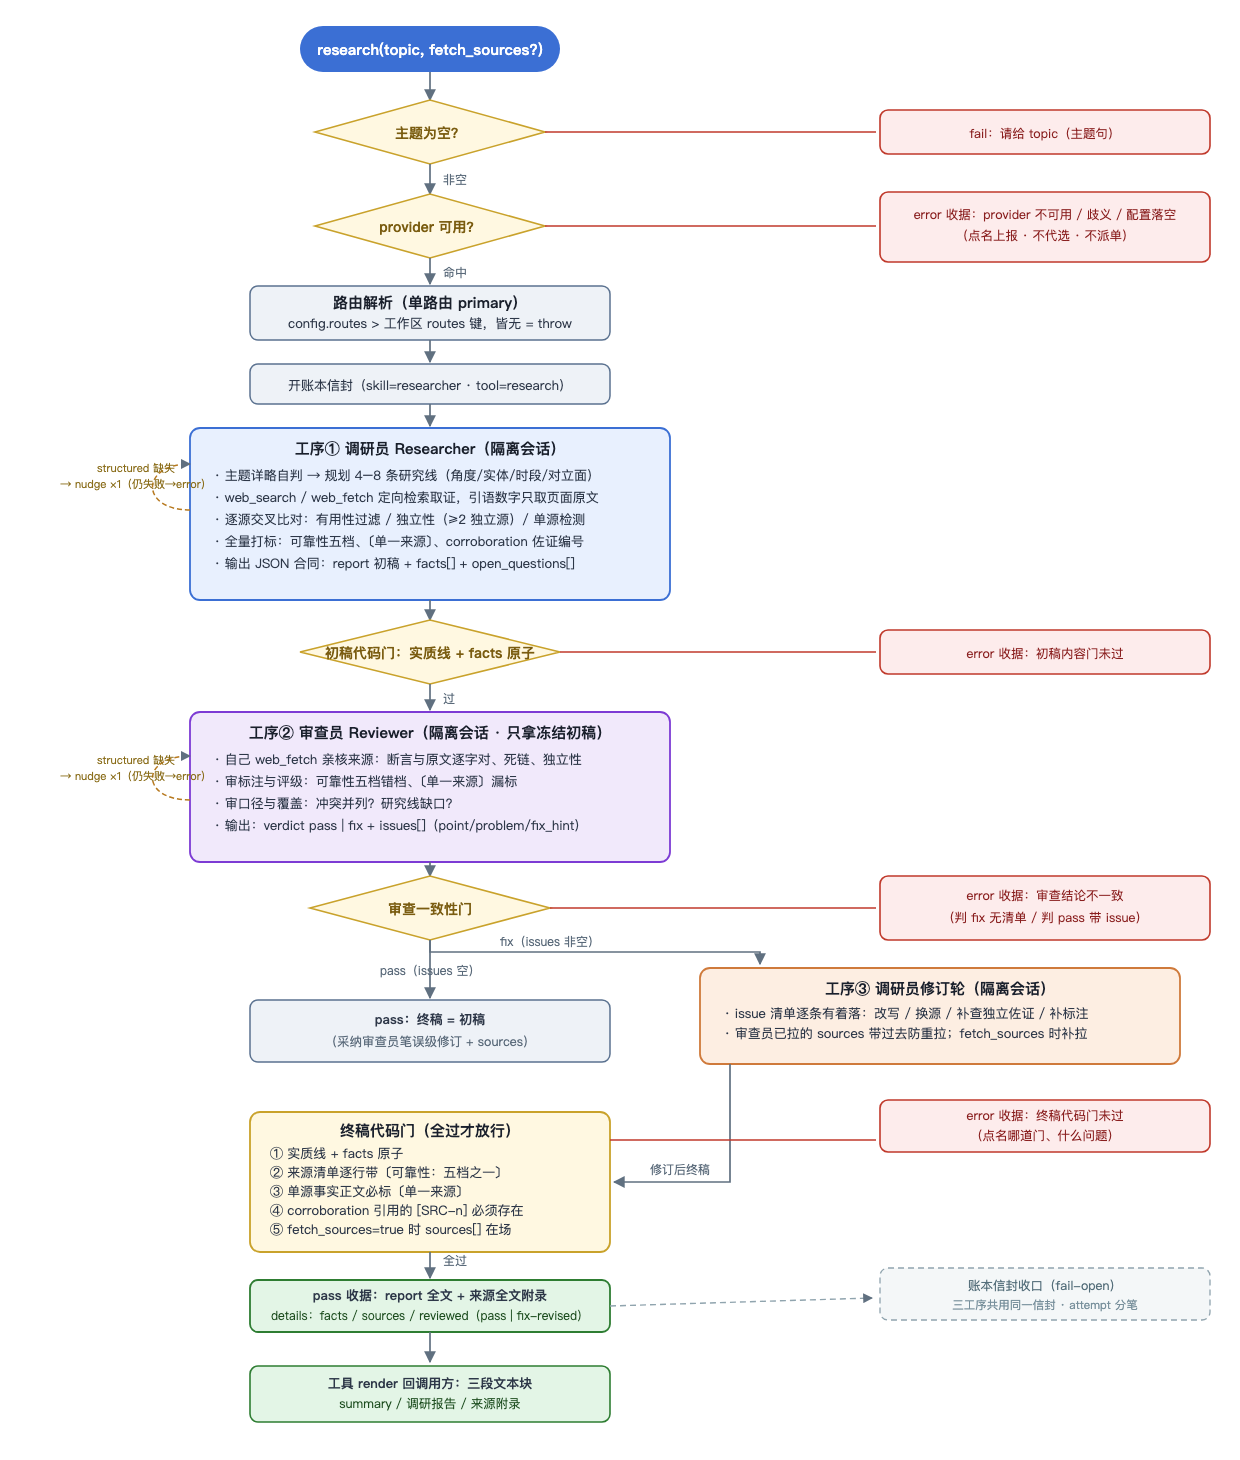
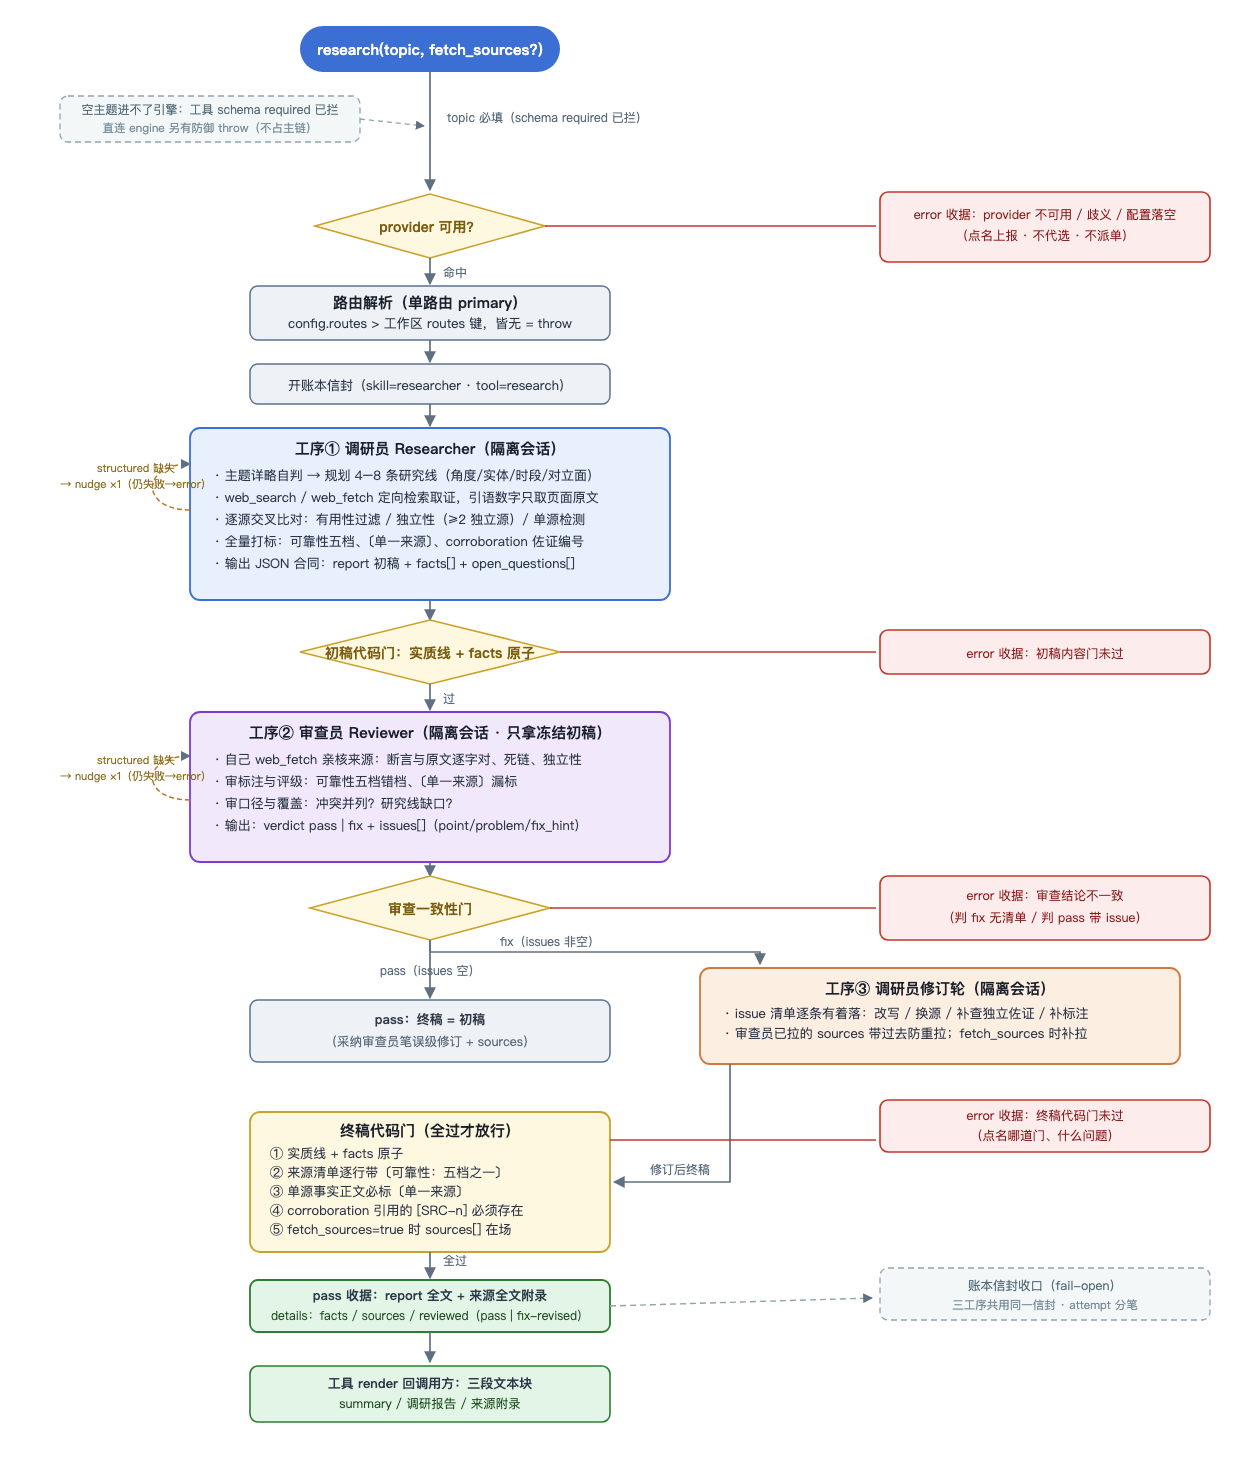
docs: 流程图摘除「主题为空」门——topic 必填属 schema 层（空参数调不了工具），engine 直连防御仅注记

Changed region(s): [[0.0613, 0.0616, 0.521, 0.1233], [0.8581, 0.0616, 0.8887, 0.0925], [0.7968, 0.0616, 0.8274, 0.0925]]

diff --git a/README.md b/README.md
@@ -25,9 +25,7 @@ Shape follows the generic deep-research references ([gpt-researcher](https://doc
 
 ```mermaid
 flowchart TD
-    A["research(topic, fetch_sources?)"] --> B{"topic empty?"}
-    B -- "empty" --> Z1["fail: please pass topic"]
-    B -- "non-empty" --> C{"web seam search provider available?"}
+    A["research(topic, fetch_sources?)<br/>topic required — rejected by the tool schema; direct engine calls hit the defensive throw (not on the main chain)"] --> C{"web seam search provider available?"}
     C -- "none" --> Z2["error receipt: provider unavailable (no dispatch)"]
     C -- "ambiguous / config miss" --> Z3["error receipt: named report, never silently resolved"]
     C -- "hit" --> D["route resolution (single-route primary)<br/>config.routes &gt; workspace routes key; none = throw"]

diff --git a/README.zh.md b/README.zh.md
@@ -25,9 +25,7 @@
 
 ```mermaid
 flowchart TD
-    A["research(topic, fetch_sources?)"] --> B{"主题为空？"}
-    B -- "为空" --> Z1["fail：请给 topic（主题句）"]
-    B -- "非空" --> C{"web seam 搜索 provider 可用？"}
+    A["research(topic, fetch_sources?)<br/>topic 必填——工具 schema required 已拦（直连 engine 空主题 = 防御 throw，不占主链）"] --> C{"web seam 搜索 provider 可用？"}
     C -- "无可用" --> Z2["error 收据：provider 不可用（不派单）"]
     C -- "多 provider 歧义 / 配置落空" --> Z3["error 收据：点名上报，不代选"]
     C -- "命中" --> D["路由解析（单路由 primary）<br/>config.routes &gt; 工作区 routes 键；皆无 = throw"]
